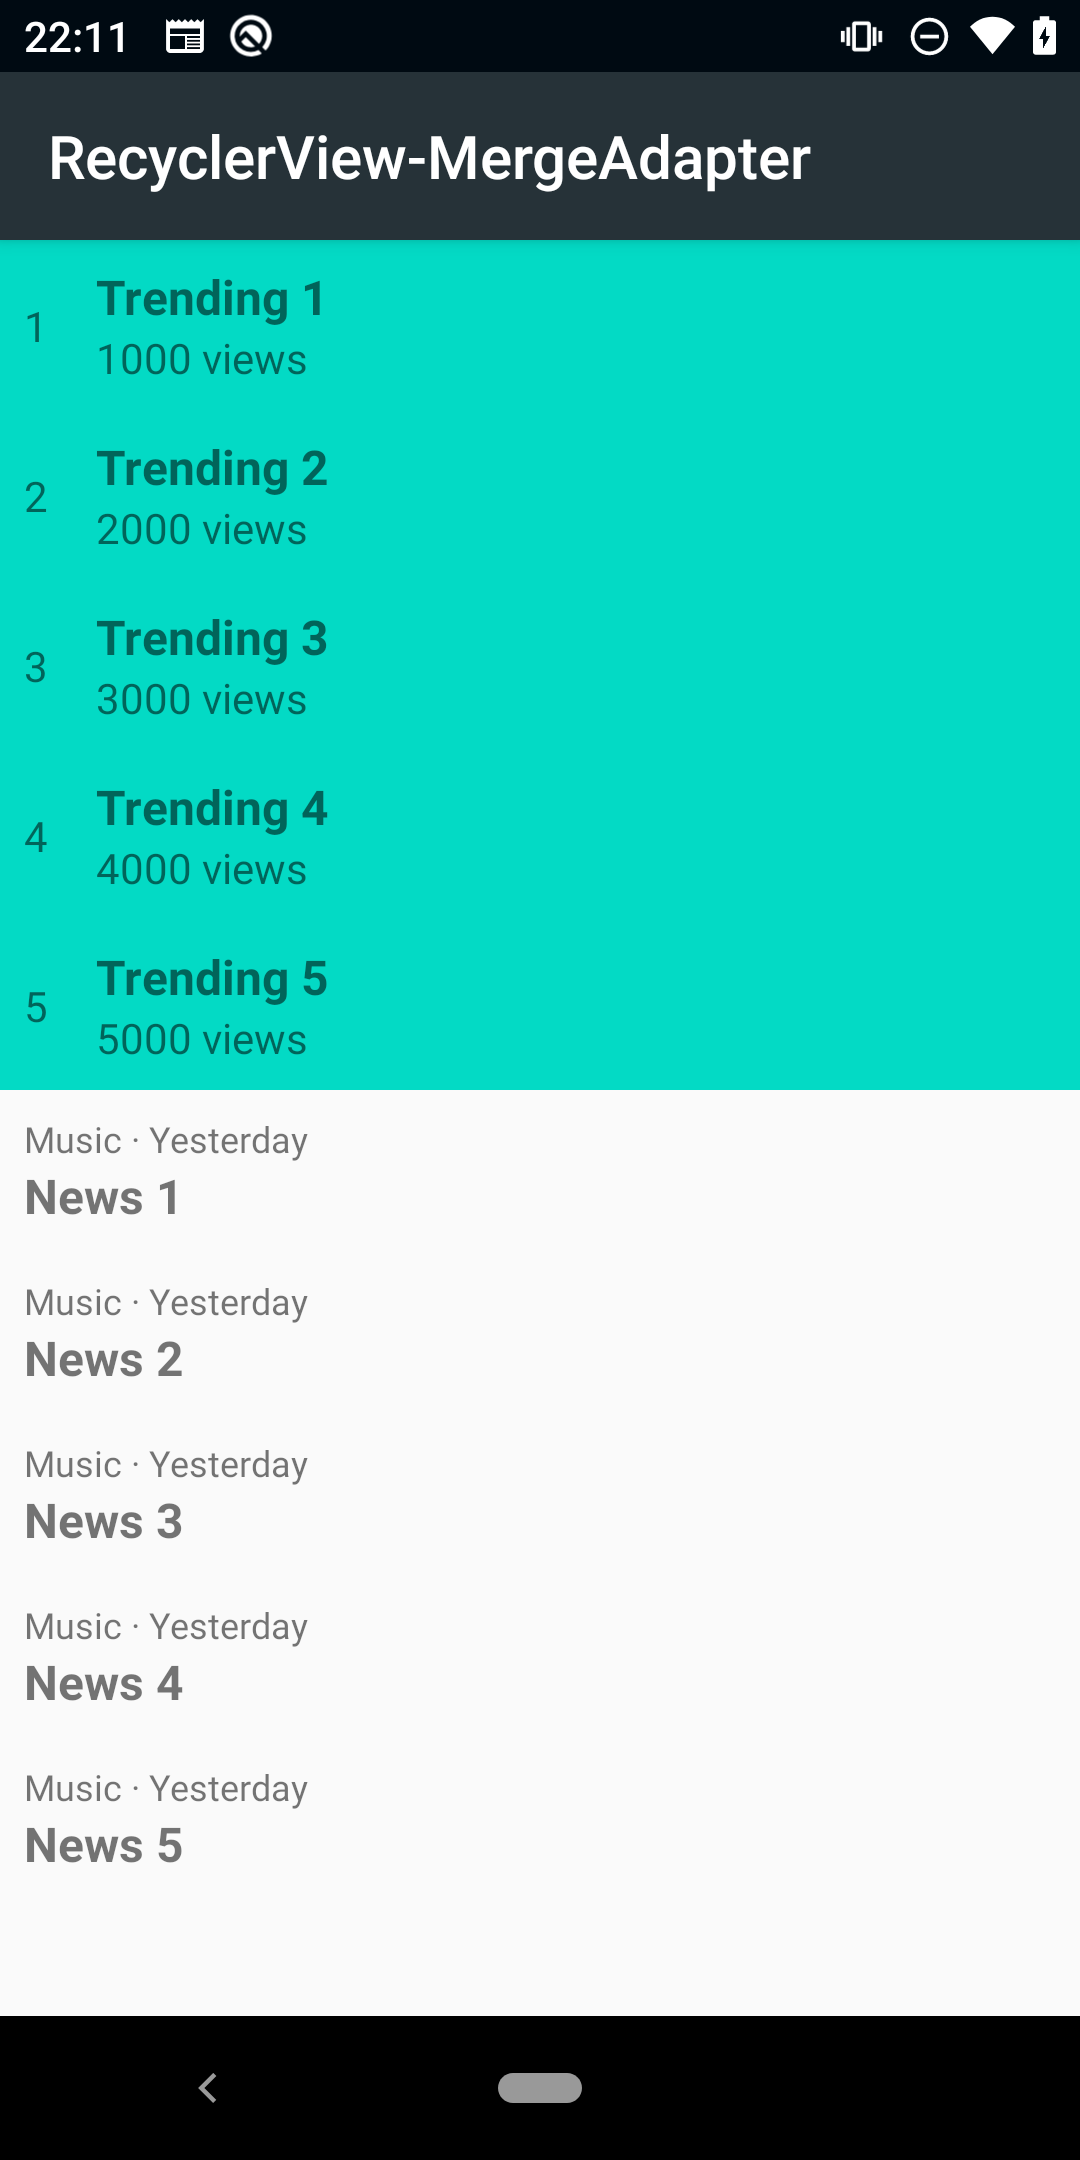
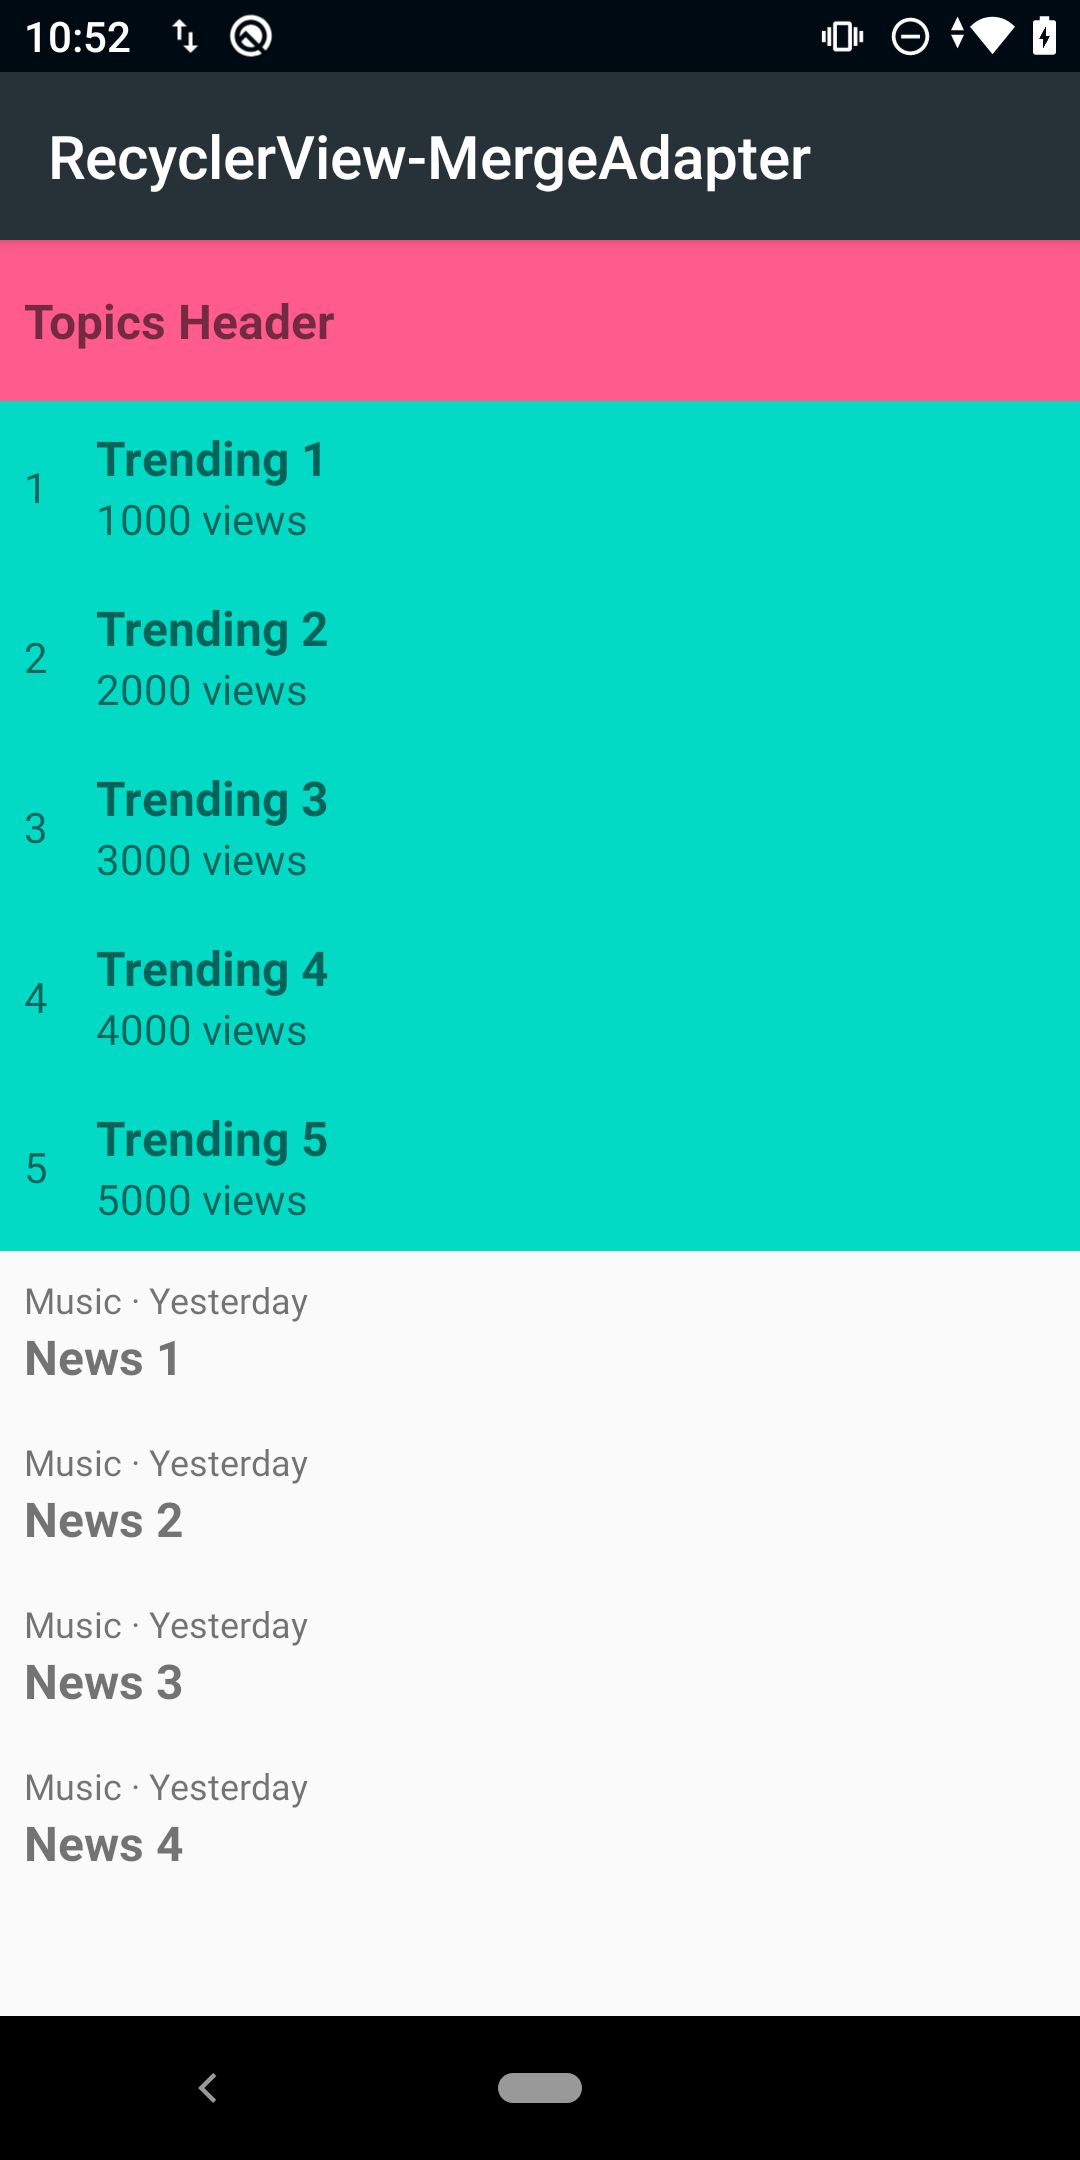
Add Topics header

diff --git a/app/src/main/kotlin/erikjhordanrey/github/io/ui/HomeActivity.kt b/app/src/main/kotlin/erikjhordanrey/github/io/ui/HomeActivity.kt
@@ -8,6 +8,7 @@ import erikjhordanrey.github.io.data.createNewsList
 import erikjhordanrey.github.io.data.createTrendingList
 import erikjhordanrey.github.io.data.newsReceiver
 import erikjhordanrey.github.io.databinding.ActivityHomeBinding
+import erikjhordanrey.github.io.ui.adapter.TopicsHeaderAdapter
 import erikjhordanrey.github.io.ui.adapter.NewsAdapter
 import erikjhordanrey.github.io.ui.adapter.TrendingAdapter
 
@@ -15,6 +16,7 @@ class HomeActivity : AppCompatActivity() {
 
     private val newsAdapter by lazy { NewsAdapter() }
     private val trendingAdapter by lazy { TrendingAdapter() }
+    private val headerAdapter by lazy { TopicsHeaderAdapter() }
 
     private lateinit var binding: ActivityHomeBinding
 
@@ -38,7 +40,7 @@ class HomeActivity : AppCompatActivity() {
     }
 
     private fun initRecyclerView() {
-        val mergeAdapter = MergeAdapter(createTrendingAdapter(), createNewsAdapter())
+        val mergeAdapter = MergeAdapter(headerAdapter, createTrendingAdapter(), createNewsAdapter())
         binding.recyclerView.adapter = mergeAdapter
     }
 

diff --git a/app/src/main/kotlin/erikjhordanrey/github/io/ui/adapter/TopicsHeaderAdapter.kt b/app/src/main/kotlin/erikjhordanrey/github/io/ui/adapter/TopicsHeaderAdapter.kt
@@ -1,0 +1,22 @@
+package erikjhordanrey.github.io.ui.adapter
+
+import android.view.LayoutInflater
+import android.view.ViewGroup
+import androidx.recyclerview.widget.RecyclerView
+import erikjhordanrey.github.io.databinding.ItemTopicsHeaderBinding
+
+class TopicsHeaderAdapter : RecyclerView.Adapter<TopicsHeaderViewHolder>() {
+
+    override fun onCreateViewHolder(parent: ViewGroup, viewType: Int) =
+            TopicsHeaderViewHolder(ItemTopicsHeaderBinding.inflate(LayoutInflater.from(parent.context), parent, false))
+
+    override fun onBindViewHolder(holderTopics: TopicsHeaderViewHolder, position: Int) {
+        holderTopics.bind()
+    }
+
+    override fun getItemCount() = HEADER
+
+    companion object {
+        private const val HEADER = 1
+    }
+}

diff --git a/app/src/main/kotlin/erikjhordanrey/github/io/ui/adapter/TopicsHeaderViewHolder.kt b/app/src/main/kotlin/erikjhordanrey/github/io/ui/adapter/TopicsHeaderViewHolder.kt
@@ -1,0 +1,12 @@
+package erikjhordanrey.github.io.ui.adapter
+
+import androidx.recyclerview.widget.RecyclerView
+import erikjhordanrey.github.io.R
+import erikjhordanrey.github.io.databinding.ItemTopicsHeaderBinding
+
+class TopicsHeaderViewHolder(private val binding: ItemTopicsHeaderBinding) : RecyclerView.ViewHolder(binding.root) {
+
+    fun bind() {
+        binding.titleTextView.text = itemView.context.getString(R.string.header_text)
+    }
+}

diff --git a/README.md b/README.md
@@ -3,16 +3,13 @@
 The main goal is to practice [RecyclerView MergeAdapter](https://developer.android.com/jetpack/androidx/releases/recyclerview#version_120_2) 
 a new RecyclerView Adapter that can combine multiple adapters linearly.
 
+Read more about [Merge adapters sequentially with MergeAdapter](https://medium.com/androiddevelopers/merge-adapters-sequentially-with-mergeadapter-294d2942127a) by Florina Muntenescu.
+
 ## Sample
 
 **LinearLayoutManager (Vertical)**
 
 <img src="./art/Screenshot.png" width="220">
-
-
-**GridLayoutManager**
-
-<img src="./art/Screenshot2.png" width="220">
 
 ```xml
 
@@ -24,7 +21,7 @@ a new RecyclerView Adapter that can combine multiple adapters linearly.
 ```
 
  
-Consider to add horizontal orientation `android:orientation="horizontal"` to GridLayoutManager or LinearLayoutManager to try it. 
+Try adding horizontal orientation `android:orientation="horizontal"` to GridLayoutManager or LinearLayoutManager. 
 
 Do you want to contribute?
 --------------------------
